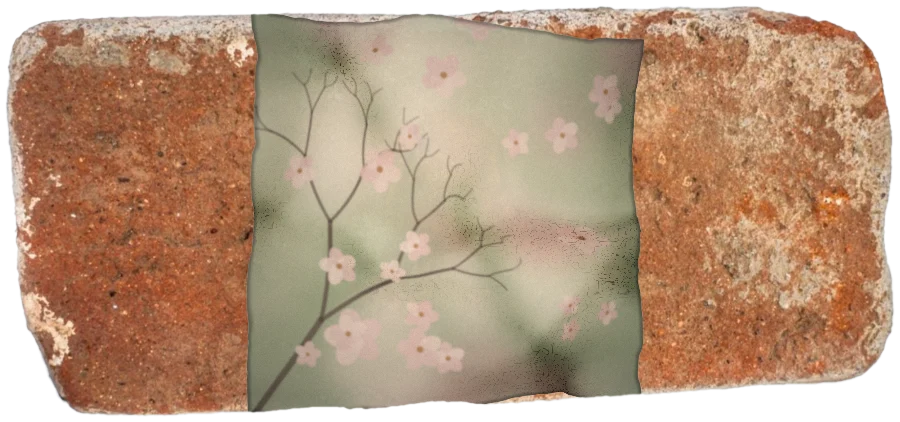
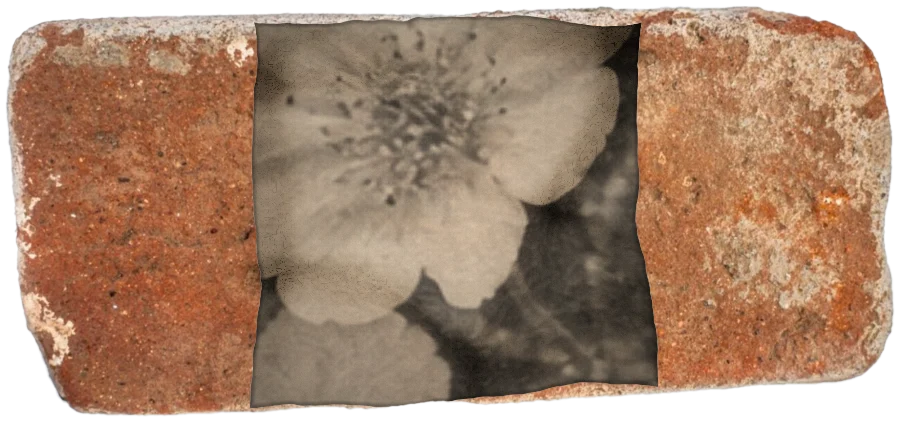
Use the design's photographs instead of drawn material
- Metal tray photo for the water steps; surfaces shown on white for shaping
- Torn paper, newspaper, book page and map pieces from the Figma sheets as paper surfaces, plus handmade paper
- Sample prints use photographs from the design file
- Keep existing transparency when cutting out surface photos
- Regenerate example works

Claude-Session: https://claude.ai/code/session_015GE4ar3CcMEokEyLADVoEo

diff --git a/index.html b/index.html
@@ -340,7 +340,7 @@ const I18N = {
     'hint.4.push': '끌어서 밀면 주름이 지고, 가장자리를 넘기면 접힙니다.', 'hint.4.pinch': '누르고 있으면 막이 모이며 주름이 생깁니다.',
     'hint.4.smooth': '문지르면 주름이 펴집니다.', 'hint.4.tear': '문지른 자리가 찢어집니다.', 'hint.5': '젖은 광택이 빠지고 막이 살짝 줄어듭니다.',
     'cat.stone': '돌', 'cat.paper': '종이', 'addImage': '이미지 추가',
-    'surf.cold': '수채화지 콜드프레스', 'surf.hot': '수채화지 핫프레스', 'surf.hanji': '한지', 'surf.kraft': '크라프트지', 'surf.linen': '리넨', 'surf.greyPaper': '회색 종이',
+    'surf.cold': '수채화지 콜드프레스', 'surf.hot': '수채화지 핫프레스', 'surf.hanji': '한지', 'surf.kraft': '크라프트지', 'surf.linen': '리넨', 'surf.greyPaper': '회색 종이', 'surf.tornPlain': '찢은 종이', 'surf.crumpled': '구겨진 종이', 'surf.foldedBeige': '접힌 갱지', 'surf.newspaper': '신문', 'surf.roughWhite': '거친 흰 종이', 'surf.greenWash': '초록 물든 종이', 'surf.bookText': '책 낱장', 'surf.tornCream': '찢은 미색 종이', 'surf.map': '지도', 'surf.roughCream': '거친 미색 종이', 'surf.newspaperBridge': '신문 (다리)', 'surf.bookPage': '책 87쪽', 'surf.foldedCream': '접힌 미색 종이', 'surf.handmade': '수제 종이',
     'surf.pebbleWhite': '흰 조약돌', 'surf.flatStone': '납작한 돌', 'surf.brickFragment': '벽돌 조각', 'surf.oldBrick': '오래된 벽돌', 'surf.clayBrick': '흙벽돌',
     'surf.darkSlate': '검은 판석', 'surf.granitePebble': '화강암 조약돌', 'surf.ochreFlagstone': '황토빛 판석', 'surf.redBrick': '붉은 벽돌', 'surf.custom': '올린 표면',
     'surf.fig': '무화과 잎', 'surf.leaves': '긴 잎', 'surf.pebble': '조약돌', 'surf.wood': '나무판',
@@ -391,7 +391,7 @@ const I18N = {
     'hint.4.push': 'Drag to push; it wrinkles, and folds over at the edge.', 'hint.4.pinch': 'Hold to gather the skin into wrinkles.',
     'hint.4.smooth': 'Rub to ease the wrinkles out.', 'hint.4.tear': 'Rub to tear.', 'hint.5': 'The wet sheen fades and the skin tightens a little.',
     'cat.stone': 'stone', 'cat.paper': 'paper', 'addImage': 'add image',
-    'surf.cold': 'cold-press watercolor', 'surf.hot': 'hot-press watercolor', 'surf.hanji': 'hanji', 'surf.kraft': 'kraft paper', 'surf.linen': 'linen', 'surf.greyPaper': 'grey paper',
+    'surf.cold': 'cold-press watercolor', 'surf.hot': 'hot-press watercolor', 'surf.hanji': 'hanji', 'surf.kraft': 'kraft paper', 'surf.linen': 'linen', 'surf.greyPaper': 'grey paper', 'surf.tornPlain': 'torn paper', 'surf.crumpled': 'crumpled paper', 'surf.foldedBeige': 'folded newsprint', 'surf.newspaper': 'newspaper', 'surf.roughWhite': 'rough white paper', 'surf.greenWash': 'green-washed paper', 'surf.bookText': 'book page', 'surf.tornCream': 'torn cream paper', 'surf.map': 'map', 'surf.roughCream': 'rough cream paper', 'surf.newspaperBridge': 'newspaper, bridge', 'surf.bookPage': 'page 87', 'surf.foldedCream': 'folded cream paper', 'surf.handmade': 'handmade paper',
     'surf.pebbleWhite': 'white pebble', 'surf.flatStone': 'flat stone', 'surf.brickFragment': 'brick fragment', 'surf.oldBrick': 'old brick', 'surf.clayBrick': 'clay brick',
     'surf.darkSlate': 'dark slate', 'surf.granitePebble': 'granite pebble', 'surf.ochreFlagstone': 'ochre flagstone', 'surf.redBrick': 'red brick', 'surf.custom': 'your own surface',
     'surf.fig': 'fig leaf', 'surf.leaves': 'long leaves', 'surf.pebble': 'pebble', 'surf.wood': 'wood panel',
@@ -426,10 +426,12 @@ function t(key, vars) {
    constants & state
    ========================================================= */
 const W = 1200, H = 900, BGS = 1.5;
-const TRAY = { x: 36, y: 28, w: 1128, h: 844 };
+const TRAY = { x: 140, y: 142, w: 920, h: 588 };
+const TRAY_IMG = { x: 30, y: 60, w: 1140, h: 760 };
+const trayPhoto = new Image(); trayPhoto.src = 'surfaces/tray.jpg';
 const reduceMotion = matchMedia('(prefers-reduced-motion: reduce)').matches;
 const state = {
-  view: 'home', phase: 1, film: 'integral', temp: 45, surface: 'cold', whiteLayer: false, picking: false, soakDone: false,
+  view: 'home', phase: 1, film: 'integral', temp: 45, surface: 'pebbleWhite', whiteLayer: false, picking: false, soakDone: false,
   tool3: 'release', tool4: 'push', brush3: 70, brush4: 70, flipped: false,
   soakP: 0, soaking: false, soakThr: 0.2, ragged: 1, holes: 0,
   autoRel: null, dryP: 0, drying: false, dip: 0, simFrames: 0,
@@ -499,7 +501,7 @@ void main(){
   c=mix(c,c*vec3(0.86,0.87,0.88),u_wet*texture2D(u_mask,uv).a);
   c=mix(c,c*u_tint,min(inW,1.)*0.6);
   float a=n2(w*0.02+vec2(u_time*0.15,u_time*0.1)), b=n2(w*0.031-vec2(u_time*0.12,-u_time*0.07));
-  c+=inW*pow(max(0.,1.-abs(a-b)*2.4),10.)*0.045;
+  c+=inW*(a*b-0.25)*0.06;
   gl_FragColor=vec4(c,1.);
 }`;
 const MV_VS = `attribute vec2 a_pos; attribute vec2 a_uv; attribute float a_comp, a_rel, a_field; ${VS_VIEW}
@@ -697,12 +699,12 @@ function sceneStill(g, w, h, r) {
 }
 const SCENES = [[sceneSea, 1400, 1060], [sceneBlossom, 1060, 1400], [sceneMoon, 1400, 1060], [sceneStill, 1060, 1400]];
 let lastScene = -1;
-function makeScene(i, seed = 7) {
-  if (i == null) { do { i = Math.floor(Math.random() * SCENES.length); } while (i === lastScene); }
-  lastScene = i;
-  const [fn, w, h] = SCENES[i], c = mk(w, h), g = c.getContext('2d');
-  fn(g, w, h, rng(seed + i * 101));
-  return c;
+const PHOTOS = ['sea', 'roses', 'city', 'clouds', 'flowers'];
+let lastPhoto = -1;
+function loadSample(i) {
+  if (i == null) { do { i = Math.floor(Math.random() * PHOTOS.length); } while (i === lastPhoto && PHOTOS.length > 1); }
+  lastPhoto = i;
+  return loadImg('photos/' + PHOTOS[i] + '.jpg');
 }
 
 /* =========================================================
@@ -1034,6 +1036,8 @@ function cutout(img, noCut) {
   const c = mk(w, h), g = c.getContext('2d', { willReadFrequently: true });
   g.drawImage(img, 0, 0, w, h);
   const id = g.getImageData(0, 0, w, h), d = id.data;
+  let clear = 0; for (let k = 3; k < d.length; k += 16) if (d[k] < 200) clear++;
+  if (clear / (d.length / 16) > 0.03) noCut = true;
   const border = [];
   for (let x = 0; x < w; x += 3) { border.push(x, (h - 1) * w + x); }
   for (let y = 0; y < h; y += 3) { border.push(y * w, y * w + w - 1); }
@@ -1042,7 +1046,8 @@ function cutout(img, noCut) {
   const near = k => { const o = k * 4, r = d[o] - bg[0], gg = d[o + 1] - bg[1], b = d[o + 2] - bg[2]; return r * r + gg * gg + b * b; };
   const tol = 42 * 42;
   const uniform = border.filter(k => near(k) < tol).length / border.length;
-  const alpha = new Float32Array(w * h).fill(1);
+  const alpha = new Float32Array(w * h);
+  for (let k = 0; k < w * h; k++) alpha[k] = d[k * 4 + 3] / 255;
   if (uniform > 0.7 && !noCut) {
     const seen = new Uint8Array(w * h), stack = [];
     for (let x = 0; x < w; x++) { stack.push(x, (h - 1) * w + x); }
@@ -1072,7 +1077,7 @@ function cutout(img, noCut) {
     const soft = blur(blur(alpha, true), false);
     for (let k = 0; k < w * h; k++) alpha[k] = smooth(0.45, 0.85, soft[k]);
     let kept = 0; for (let k = 0; k < w * h; k++) kept += alpha[k];
-    if (kept / (w * h) < 0.08) alpha.fill(1);
+    if (kept / (w * h) < 0.08) for (let k = 0; k < w * h; k++) alpha[k] = d[k * 4 + 3] / 255;
   }
   let x0 = w, y0 = h, x1 = 0, y1 = 0;
   for (let y = 0; y < h; y++) for (let x = 0; x < w; x++) {
@@ -1080,7 +1085,7 @@ function cutout(img, noCut) {
     d[(y * w + x) * 4 + 3] = a * 255;
     if (a > 0.05) { if (x < x0) x0 = x; if (x > x1) x1 = x; if (y < y0) y0 = y; if (y > y1) y1 = y; }
   }
-  if (x1 <= x0 || y1 <= y0) { x0 = 0; y0 = 0; x1 = w - 1; y1 = h - 1; for (let k = 0; k < w * h; k++) d[k * 4 + 3] = 255; }
+  if (x1 <= x0 || y1 <= y0) { x0 = 0; y0 = 0; x1 = w - 1; y1 = h - 1; }
   g.putImageData(id, 0, 0);
   const cw = x1 - x0 + 1, chh = y1 - y0 + 1, out = mk(cw, chh);
   out.getContext('2d').drawImage(c, x0, y0, cw, chh, 0, 0, cw, chh);
@@ -1105,12 +1110,21 @@ const SURFACES = {
   clayBrick: { group: 'stone', photo: 'surfaces/clay-brick.jpg' },
   ochreFlagstone: { group: 'stone', photo: 'surfaces/ochre-flagstone.jpg' },
   redBrick: { group: 'stone', photo: 'surfaces/red-brick.jpg' },
+  tornPlain: { group: 'paper', photo: 'surfaces/paper/torn-plain.webp' },
+  crumpled: { group: 'paper', photo: 'surfaces/paper/crumpled.webp' },
+  foldedBeige: { group: 'paper', photo: 'surfaces/paper/folded-beige.webp' },
+  newspaper: { group: 'paper', photo: 'surfaces/paper/newspaper.webp' },
+  roughWhite: { group: 'paper', photo: 'surfaces/paper/rough-white.webp' },
+  greenWash: { group: 'paper', photo: 'surfaces/paper/green-wash.webp' },
+  bookText: { group: 'paper', photo: 'surfaces/paper/book-text.webp' },
+  tornCream: { group: 'paper', photo: 'surfaces/paper/torn-cream.webp' },
+  map: { group: 'paper', photo: 'surfaces/paper/map.webp' },
+  roughCream: { group: 'paper', photo: 'surfaces/paper/rough-cream.webp' },
+  newspaperBridge: { group: 'paper', photo: 'surfaces/paper/newspaper-bridge.webp' },
+  bookPage: { group: 'paper', photo: 'surfaces/paper/book-page.webp' },
+  foldedCream: { group: 'paper', photo: 'surfaces/paper/folded-cream.webp' },
+  handmade: { group: 'paper', photo: 'surfaces/handmade-paper.jpg', noCut: true },
   greyPaper: { group: 'paper', photo: 'surfaces/grey-paper.jpg', noCut: true },
-  cold: { group: 'paper', rect: PAPER_R, gen: genPaper('cold') },
-  hot: { group: 'paper', rect: PAPER_R, gen: genPaper('hot') },
-  hanji: { group: 'paper', rect: PAPER_R, gen: genPaper('hanji') },
-  kraft: { group: 'paper', rect: PAPER_R, gen: genPaper('kraft') },
-  linen: { group: 'paper', rect: { x: 140, y: 100, w: 920, h: 700 }, gen: genLinen },
 };
 function surfName(kind) { return SURFACES[kind] && SURFACES[kind].custom ? t('surf.custom') : t('surf.' + kind); }
 const surfCache = {};
@@ -1154,20 +1168,9 @@ function makeTable() {
 const bgCanvas = mk(W * BGS, H * BGS), bgCtx = bgCanvas.getContext('2d');
 function roundRect(g, x, y, w, h, r) { g.beginPath(); g.moveTo(x + r, y); g.arcTo(x + w, y, x + w, y + h, r); g.arcTo(x + w, y + h, x, y + h, r); g.arcTo(x, y + h, x, y, r); g.arcTo(x, y, x + w, y, r); g.closePath(); }
 function drawTray(g) {
-  const { x, y, w, h } = TRAY;
-  g.save(); g.shadowColor = 'rgba(0,0,0,.22)'; g.shadowBlur = 26; g.shadowOffsetY = 12;
-  let gr = g.createLinearGradient(0, y, 0, y + h);
-  gr.addColorStop(0, '#5b5d60'); gr.addColorStop(0.05, '#1d1e20'); gr.addColorStop(0.5, '#3a3c3f'); gr.addColorStop(0.95, '#151617'); gr.addColorStop(1, '#4a4c4f');
-  g.fillStyle = gr; roundRect(g, x, y, w, h, 34); g.fill(); g.restore();
-  gr = g.createLinearGradient(x, 0, x + w, 0);
-  gr.addColorStop(0, '#c9cbcd'); gr.addColorStop(0.18, '#f2f3f4'); gr.addColorStop(0.45, '#d4d6d8'); gr.addColorStop(0.7, '#eceef0'); gr.addColorStop(1, '#b9bcbf');
-  g.fillStyle = gr; roundRect(g, x + 16, y + 16, w - 32, h - 32, 24); g.fill();
-  gr = g.createLinearGradient(0, y + 16, 0, y + h - 16);
-  gr.addColorStop(0, 'rgba(0,0,0,.18)'); gr.addColorStop(0.05, 'rgba(0,0,0,0)'); gr.addColorStop(0.93, 'rgba(0,0,0,0)'); gr.addColorStop(1, 'rgba(0,0,0,.16)');
-  g.fillStyle = gr; roundRect(g, x + 16, y + 16, w - 32, h - 32, 24); g.fill();
-  g.strokeStyle = 'rgba(255,255,255,.55)'; g.lineWidth = 2; roundRect(g, x + 40, y + 40, w - 80, h - 80, 14); g.stroke();
-  g.strokeStyle = 'rgba(0,0,0,.08)'; g.lineWidth = 1; roundRect(g, x + 43, y + 43, w - 86, h - 86, 12); g.stroke();
+  if (trayPhoto.complete && trayPhoto.naturalWidth) g.drawImage(trayPhoto, TRAY_IMG.x, TRAY_IMG.y, TRAY_IMG.w, TRAY_IMG.h);
 }
+trayPhoto.onload = () => { if (gl && (state.phase === 2 || state.phase === 3)) composeBG(); };
 function shadowRect(g, x, y, w, h, color, blur = 18, r = 3) {
   g.save(); g.shadowColor = 'rgba(30,34,36,.24)'; g.shadowBlur = blur; g.shadowOffsetY = 4;
   g.fillStyle = color; roundRect(g, x, y, w, h, r); g.fill(); g.restore();
@@ -1178,7 +1181,7 @@ function composeBG() {
   const g = bgCtx, ph = state.phase, r = printRect(), integ = state.film === 'integral';
   g.setTransform(BGS, 0, 0, BGS, 0, 0);
   g.drawImage(tableCanvas, 0, 0, W, H);
-  if (ph >= 2 && ph <= 4) drawTray(g);
+  if (ph === 2 || ph === 3) drawTray(g);
   if (ph === 1) {
     if (integ) shadowRect(g, r.x - 28, r.y - 28, r.w + 56, r.h + 28 + 120, '#f3f2ec', 22, 4);
     else shadowRect(g, r.x - 24, r.y - 24, r.w + 48, r.h + 48, '#f6f4ee', 22, 4);
@@ -1222,7 +1225,7 @@ function params() {
   if (ph === 1) return { water: 0, tint: cold, wet: 0, soak: 0, relVis: 0, mwet: 0, clip: 0 };
   if (ph === 2) return { water: 1, tint: hot, wet: 0, soak: state.soakP * state.soakThr, relVis: 0, mwet: 0, clip: 0 };
   if (ph === 3) return { water: 1, tint: cold, wet: 0, soak: 0, relVis: 1, mwet: 0.5, clip: 0 };
-  if (ph === 4) return { water: 0.45 + state.dip * 0.55, tint: cold, wet: 1, soak: 0, relVis: 0, mwet: 1, clip: 1 };
+  if (ph === 4) return { water: state.dip * 0.5, tint: cold, wet: 1, soak: 0, relVis: 0, mwet: 1, clip: 1 };
   const w = 1 - state.dryP; return { water: 0, tint: cold, wet: w, soak: 0, relVis: 0, mwet: w, clip: 1 };
 }
 function render(view) {
@@ -1786,7 +1789,7 @@ function showView(v) {
   [['nav-about', 'about'], ['nav-studio', 'studio'], ['nav-archive', 'archive']].forEach(([id, name]) => {
     if (v === name) $(id).setAttribute('aria-current', 'page'); else $(id).removeAttribute('aria-current');
   });
-  if (v === 'studio') { resize(); if (!state.srcImg && gl) loadImage(makeScene()); }
+  if (v === 'studio') { resize(); if (!state.srcImg && gl) loadSample().then(loadImage).catch(() => {}); }
 }
 async function route() {
   const h = location.hash.slice(1);
@@ -1913,7 +1916,7 @@ function readFile(file) {
     .catch(() => { URL.revokeObjectURL(url); toast(t('t.openFail')); });
 }
 $('file').addEventListener('change', e => { if (gl) readFile(e.target.files[0]); e.target.value = ''; });
-$('sampleBtn').addEventListener('click', () => { if (gl) loadImage(makeScene()); });
+$('sampleBtn').addEventListener('click', () => { if (gl) loadSample().then(loadImage).catch(() => toast(t('t.openFail'))); });
 const stageEl = $('stage');
 stageEl.addEventListener('dragover', e => { e.preventDefault(); if (gl && state.phase === 1) $('dropzone').hidden = false; });
 stageEl.addEventListener('dragleave', e => { if (!stageEl.contains(e.relatedTarget)) $('dropzone').hidden = true; });
@@ -1928,7 +1931,7 @@ window.addEventListener('paste', e => {
 async function autoLift({ scene, film: f = 'peel', surface = 'cold', temp, flip: fl = false, shakes = 1, maxSide = 1000 }) {
   state.film = f; state.temp = temp || (f === 'integral' ? 45 : 70); state.surface = surface;
   await ensureSurface(surface);
-  loadImage(makeScene(scene, 7));
+  loadImage(await loadSample(scene));
   finishSoak(); enterLift();
   M.rel.fill(1); M.inv.fill(1);
   enterPaper(); updateMask(); composeBG();

diff --git a/CLAUDE.md b/CLAUDE.md
@@ -19,7 +19,8 @@ Notes from the `web` page (as of 2026-11-25; the site was rebuilt to this layout
   - `@` = log in and keep an archive, plus an artist statement.
 - Frames: `메인페이지` (works with small grey captions), `? 눌렀을 때 나오는 페이지` (text left, picture + caption right), `+눌렀을 때 나오는 첫번째 이미지` (print centred, "+ change image", chevron bottom right), `+누르고 두번째 단계` (metal tray top view), `옮길 곳_돌` / `옮길 곳_종이` / `옮길 곳_나무` (objects scattered on white, chevrons left/right, "+ add image").
 - Tokens: white ground, Inter; nav ? 36px / + 45px / @ 27px, inactive #bababa, active #514f4f (+ is black); about text Inter Bold 16px #6d6d6d.
-- Figma asset URLs cannot be downloaded from cloud sessions (figma.com is blocked by the proxy); ask the owner for image files instead.
+- Figma asset URLs download with curl once `www.figma.com` is allowed; the `emulsion-lift` cloud environment allows it.
+- The owner wants photographic material, not drawn illustration: tray, papers and sample photos come from the Figma file (`surfaces/tray.jpg`, `surfaces/paper/*.webp`, `photos/*.jpg`). Do not replace them with procedural drawings.
 - Section "reference" holds mood images; section "기능 구분" holds the owner's notes on what each page does.
 
 A login + archive (`@`) needs a backend; the current site keeps works only in the visitor's browser (IndexedDB). Raise this with the owner before building it.

diff --git a/README.md b/README.md
@@ -4,6 +4,6 @@
 
 - **메인:** 지금까지 만든 리프트가 캡션과 함께 놓입니다. 작업이 없으면 예시가 보입니다.
 - **?** 에멀전 리프트 설명. **+** 새 리프트 만들기(인화 → 뜨거운 물 → 찬물에서 떼어내기 → 옮길 곳 고르기 → 모양 잡기 → 말리기). **@** 아카이브(이 브라우저에 보관, 손으로 만든 리프트 사진 추가).
-- **표면:** 돌과 벽돌 사진 9장, 종이(수채화지, 한지, 크라프트지, 리넨, 회색 종이). 흰 바탕에서 찍은 물체 사진을 올리면 바탕을 지우고 그 모양대로 옮깁니다.
+- **표면:** 돌과 벽돌 사진 9장, 찢은 종이·신문·책 낱장·지도 등 종이 사진 15장. 트레이와 예시 사진도 Figma 디자인의 사진을 씁니다. 흰 바탕에서 찍은 물체 사진을 올리면 바탕을 지우고 그 모양대로 옮깁니다.
 
-`index.html`, `surfaces/`(물체 사진), `examples/`(작업이 없을 때 보이는 예시)로 동작합니다. 외부 의존성은 Google Fonts(Gowun Batang, Cormorant Garamond)뿐입니다.
+`index.html`, `surfaces/`(물체·종이·트레이 사진), `photos/`(예시 사진), `examples/`(작업이 없을 때 보이는 예시)로 동작합니다. 외부 의존성은 Google Fonts(Gowun Batang, Cormorant Garamond)뿐입니다.
